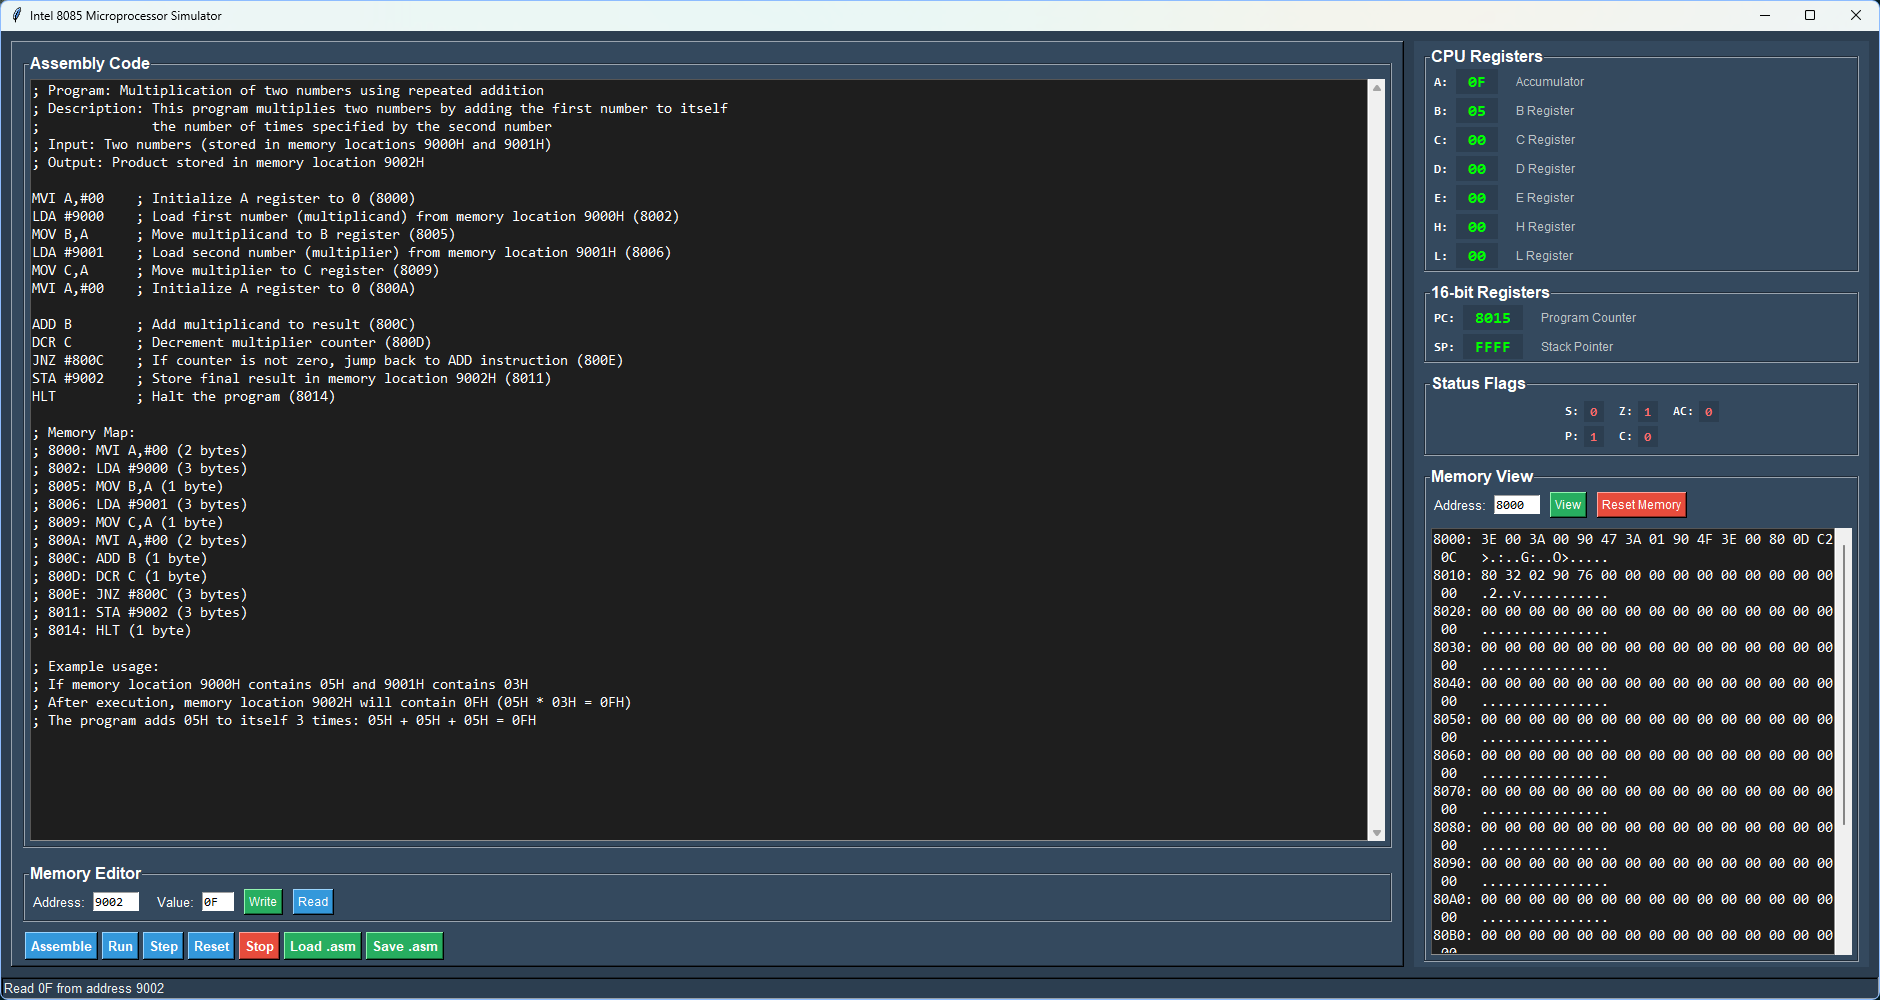
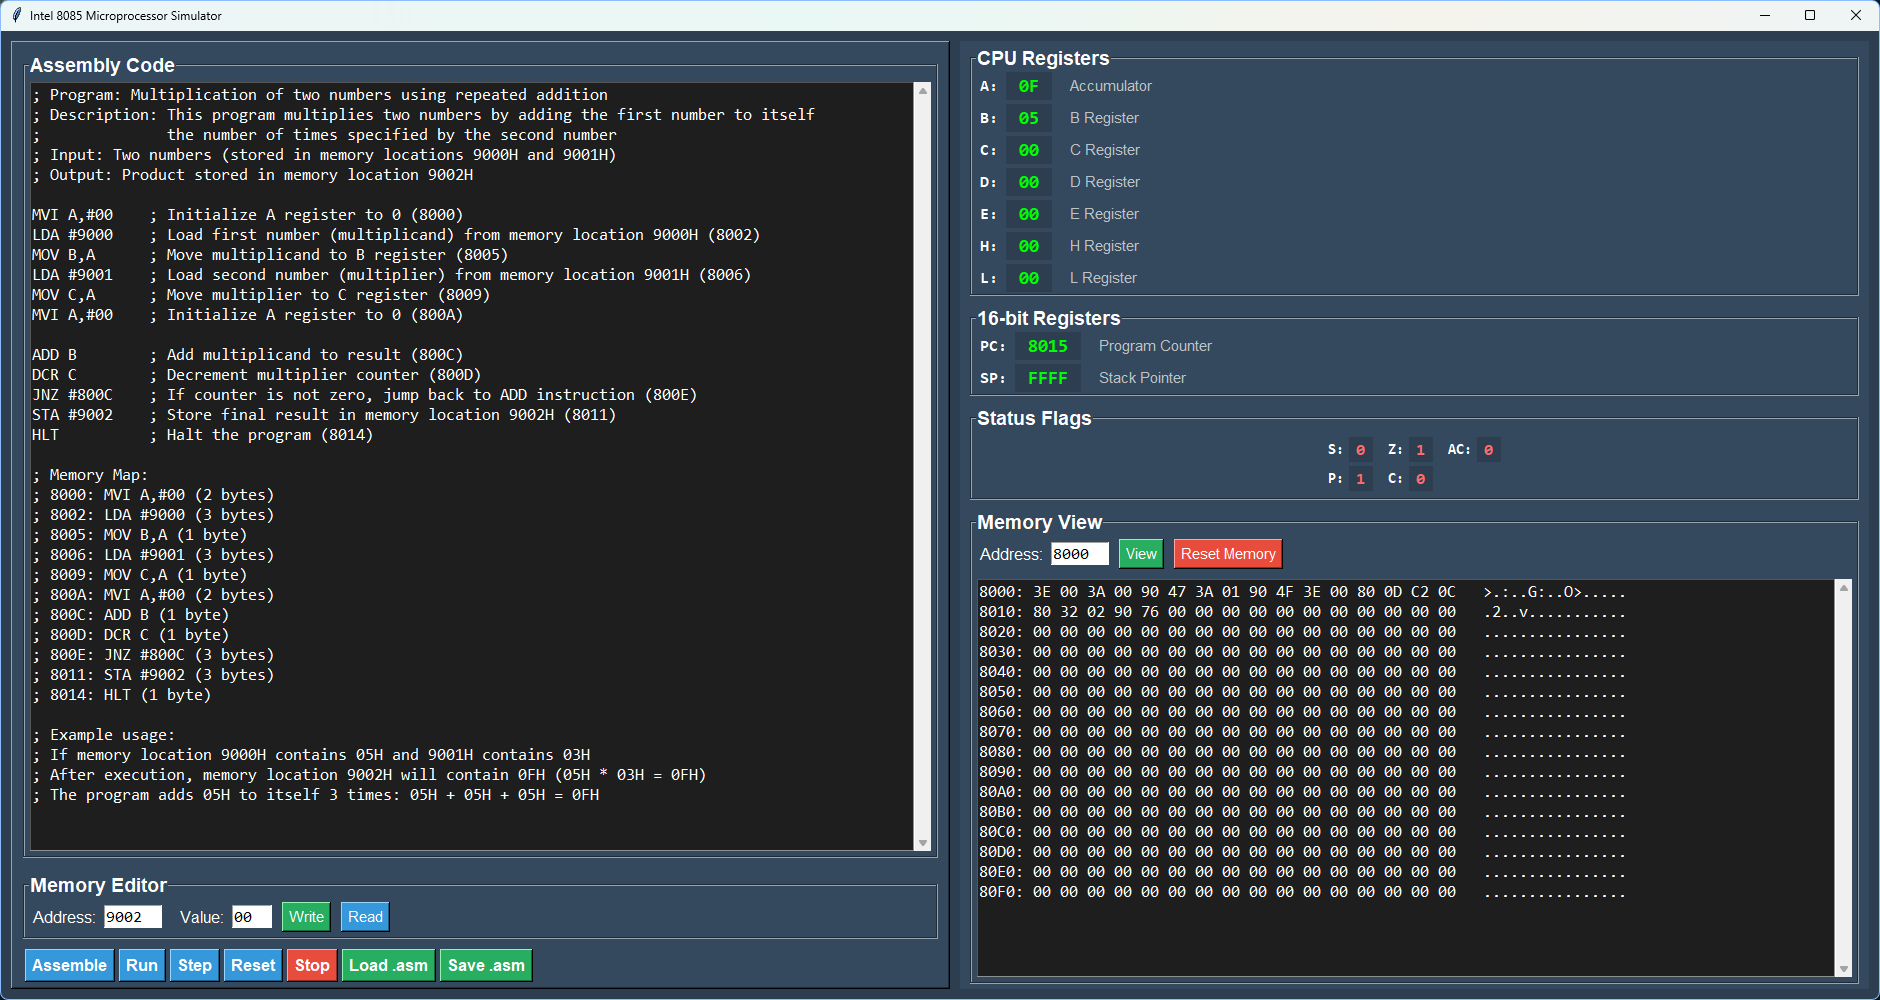
size-change

diff --git a/Src/Interface/SimulatorGUI.py b/Src/Interface/SimulatorGUI.py
@@ -15,7 +15,7 @@ class SimulatorGUI:
         logger.info("Initializing 8085 Simulator GUI")
         self.root = tk.Tk()
         self.root.title("Intel 8085 Microprocessor Simulator")
-        self.root.geometry("1200x800")
+        self.root.geometry("1400x900")  # Increased window size
         self.root.configure(bg='#2c3e50')
         
         # Initialize simulator components
@@ -42,63 +42,63 @@ class SimulatorGUI:
         left_panel.pack(side=tk.LEFT, fill=tk.BOTH, expand=True, padx=(0, 5))
         
         # Code editor
-        code_frame = tk.LabelFrame(left_panel, text="Assembly Code", bg='#34495e', fg='white', font=('Arial', 12, 'bold'))
+        code_frame = tk.LabelFrame(left_panel, text="Assembly Code", bg='#34495e', fg='white', font=('Arial', 14, 'bold'))
         code_frame.pack(fill=tk.BOTH, expand=True, padx=10, pady=10)
         
         self.code_text = scrolledtext.ScrolledText(
             code_frame, 
-            width=50, 
+            width=50,  # Increased width to match right side
             height=20,
             bg='#1e1e1e',
             fg='#ffffff',
             insertbackground='white',
-            font=('Consolas', 11),
+            font=('Consolas', 13),
             wrap=tk.NONE
         )
         self.code_text.pack(fill=tk.BOTH, expand=True, padx=5, pady=5)
         
-        # Memory Editor Section (moved below code editor)
-        mem_edit_frame = tk.LabelFrame(left_panel, text="Memory Editor", bg='#34495e', fg='white', font=('Arial', 12, 'bold'))
+        # Memory Editor Section
+        mem_edit_frame = tk.LabelFrame(left_panel, text="Memory Editor", bg='#34495e', fg='white', font=('Arial', 14, 'bold'))
         mem_edit_frame.pack(fill=tk.X, padx=10, pady=5)
         
         # Memory editor controls
         edit_controls = tk.Frame(mem_edit_frame, bg='#34495e')
         edit_controls.pack(fill=tk.X, padx=5, pady=5)
         
-        tk.Label(edit_controls, text="Address:", bg='#34495e', fg='white', font=('Arial', 10)).pack(side=tk.LEFT)
-        self.edit_addr_entry = tk.Entry(edit_controls, width=6, font=('Consolas', 10))
+        tk.Label(edit_controls, text="Address:", bg='#34495e', fg='white', font=('Arial', 12)).pack(side=tk.LEFT)
+        self.edit_addr_entry = tk.Entry(edit_controls, width=6, font=('Consolas', 12))
         self.edit_addr_entry.pack(side=tk.LEFT, padx=5)
         self.edit_addr_entry.insert(0, "9000")
         
-        tk.Label(edit_controls, text="Value:", bg='#34495e', fg='white', font=('Arial', 10)).pack(side=tk.LEFT, padx=(10,0))
-        self.edit_value_entry = tk.Entry(edit_controls, width=4, font=('Consolas', 10))
+        tk.Label(edit_controls, text="Value:", bg='#34495e', fg='white', font=('Arial', 12)).pack(side=tk.LEFT, padx=(10,0))
+        self.edit_value_entry = tk.Entry(edit_controls, width=4, font=('Consolas', 12))
         self.edit_value_entry.pack(side=tk.LEFT, padx=5)
         
-        tk.Button(edit_controls, text="Write", command=self.write_memory_byte, bg='#27ae60', fg='white', font=('Arial', 9)).pack(side=tk.LEFT, padx=5)
-        tk.Button(edit_controls, text="Read", command=self.read_memory_byte, bg='#3498db', fg='white', font=('Arial', 9)).pack(side=tk.LEFT, padx=5)
+        tk.Button(edit_controls, text="Write", command=self.write_memory_byte, bg='#27ae60', fg='white', font=('Arial', 11)).pack(side=tk.LEFT, padx=5)
+        tk.Button(edit_controls, text="Read", command=self.read_memory_byte, bg='#3498db', fg='white', font=('Arial', 11)).pack(side=tk.LEFT, padx=5)
         
         # Control buttons
         control_frame = tk.Frame(left_panel, bg='#34495e')
         control_frame.pack(fill=tk.X, padx=10, pady=5)
         
-        btn_style = {'bg': '#3498db', 'fg': 'white', 'font': ('Arial', 10, 'bold'), 'relief': tk.RAISED, 'bd': 2}
+        btn_style = {'bg': '#3498db', 'fg': 'white', 'font': ('Arial', 12, 'bold'), 'relief': tk.RAISED, 'bd': 2}
         
         tk.Button(control_frame, text="Assemble", command=self.assemble_code, **btn_style).pack(side=tk.LEFT, padx=2)
         tk.Button(control_frame, text="Run", command=self.run_program, **btn_style).pack(side=tk.LEFT, padx=2)
         tk.Button(control_frame, text="Step", command=self.step_program, **btn_style).pack(side=tk.LEFT, padx=2)
         tk.Button(control_frame, text="Reset", command=self.reset_cpu, **btn_style).pack(side=tk.LEFT, padx=2)
-        tk.Button(control_frame, text="Stop", command=self.stop_program, bg='#e74c3c', fg='white', font=('Arial', 10, 'bold')).pack(side=tk.LEFT, padx=2)
+        tk.Button(control_frame, text="Stop", command=self.stop_program, bg='#e74c3c', fg='white', font=('Arial', 12, 'bold')).pack(side=tk.LEFT, padx=2)
         
         # Add Load and Save buttons
-        tk.Button(control_frame, text="Load .asm", command=self.load_asm_file, bg='#27ae60', fg='white', font=('Arial', 10, 'bold')).pack(side=tk.LEFT, padx=2)
-        tk.Button(control_frame, text="Save .asm", command=self.save_asm_file, bg='#27ae60', fg='white', font=('Arial', 10, 'bold')).pack(side=tk.LEFT, padx=2)
+        tk.Button(control_frame, text="Load .asm", command=self.load_asm_file, bg='#27ae60', fg='white', font=('Arial', 12, 'bold')).pack(side=tk.LEFT, padx=2)
+        tk.Button(control_frame, text="Save .asm", command=self.save_asm_file, bg='#27ae60', fg='white', font=('Arial', 12, 'bold')).pack(side=tk.LEFT, padx=2)
         
         # Right panel - CPU state and memory
         right_panel = tk.Frame(main_frame, bg='#34495e')
-        right_panel.pack(side=tk.RIGHT, fill=tk.BOTH, padx=(5, 0))
+        right_panel.pack(side=tk.RIGHT, fill=tk.BOTH, expand=True, padx=(5, 0))
         
         # CPU Registers
-        reg_frame = tk.LabelFrame(right_panel, text="CPU Registers", bg='#34495e', fg='white', font=('Arial', 12, 'bold'))
+        reg_frame = tk.LabelFrame(right_panel, text="CPU Registers", bg='#34495e', fg='white', font=('Arial', 14, 'bold'))
         reg_frame.pack(fill=tk.X, padx=10, pady=5)
         
         self.reg_labels = {}
@@ -111,13 +111,13 @@ class SimulatorGUI:
             frame = tk.Frame(reg_frame, bg='#34495e')
             frame.pack(fill=tk.X, padx=5, pady=2)
             
-            tk.Label(frame, text=f"{reg}:", bg='#34495e', fg='white', font=('Consolas', 10, 'bold')).pack(side=tk.LEFT)
-            self.reg_labels[reg] = tk.Label(frame, text="00", bg='#2c3e50', fg='#00ff00', font=('Consolas', 12, 'bold'), width=4)
+            tk.Label(frame, text=f"{reg}:", bg='#34495e', fg='white', font=('Consolas', 12, 'bold')).pack(side=tk.LEFT)
+            self.reg_labels[reg] = tk.Label(frame, text="00", bg='#2c3e50', fg='#00ff00', font=('Consolas', 14, 'bold'), width=4)
             self.reg_labels[reg].pack(side=tk.LEFT, padx=5)
-            tk.Label(frame, text=desc, bg='#34495e', fg='#bdc3c7', font=('Arial', 9)).pack(side=tk.LEFT, padx=10)
+            tk.Label(frame, text=desc, bg='#34495e', fg='#bdc3c7', font=('Arial', 11)).pack(side=tk.LEFT, padx=10)
         
         # 16-bit registers
-        reg16_frame = tk.LabelFrame(right_panel, text="16-bit Registers", bg='#34495e', fg='white', font=('Arial', 12, 'bold'))
+        reg16_frame = tk.LabelFrame(right_panel, text="16-bit Registers", bg='#34495e', fg='white', font=('Arial', 14, 'bold'))
         reg16_frame.pack(fill=tk.X, padx=10, pady=5)
         
         reg16_info = [('PC', 'Program Counter'), ('SP', 'Stack Pointer')]
@@ -126,13 +126,13 @@ class SimulatorGUI:
             frame = tk.Frame(reg16_frame, bg='#34495e')
             frame.pack(fill=tk.X, padx=5, pady=2)
             
-            tk.Label(frame, text=f"{reg}:", bg='#34495e', fg='white', font=('Consolas', 10, 'bold')).pack(side=tk.LEFT)
-            self.reg_labels[reg] = tk.Label(frame, text="0000", bg='#2c3e50', fg='#00ff00', font=('Consolas', 12, 'bold'), width=6)
+            tk.Label(frame, text=f"{reg}:", bg='#34495e', fg='white', font=('Consolas', 12, 'bold')).pack(side=tk.LEFT)
+            self.reg_labels[reg] = tk.Label(frame, text="0000", bg='#2c3e50', fg='#00ff00', font=('Consolas', 14, 'bold'), width=6)
             self.reg_labels[reg].pack(side=tk.LEFT, padx=5)
-            tk.Label(frame, text=desc, bg='#34495e', fg='#bdc3c7', font=('Arial', 9)).pack(side=tk.LEFT, padx=10)
+            tk.Label(frame, text=desc, bg='#34495e', fg='#bdc3c7', font=('Arial', 11)).pack(side=tk.LEFT, padx=10)
         
         # Flags
-        flags_frame = tk.LabelFrame(right_panel, text="Status Flags", bg='#34495e', fg='white', font=('Arial', 12, 'bold'))
+        flags_frame = tk.LabelFrame(right_panel, text="Status Flags", bg='#34495e', fg='white', font=('Arial', 14, 'bold'))
         flags_frame.pack(fill=tk.X, padx=10, pady=5)
         
         self.flag_labels = {}
@@ -145,34 +145,34 @@ class SimulatorGUI:
             frame = tk.Frame(flags_grid, bg='#34495e')
             frame.grid(row=i//3, column=i%3, padx=5, pady=2, sticky='w')
             
-            tk.Label(frame, text=f"{flag}:", bg='#34495e', fg='white', font=('Consolas', 9, 'bold')).pack(side=tk.LEFT)
-            self.flag_labels[flag] = tk.Label(frame, text="0", bg='#2c3e50', fg='#ff6b6b', font=('Consolas', 10, 'bold'), width=2)
+            tk.Label(frame, text=f"{flag}:", bg='#34495e', fg='white', font=('Consolas', 11, 'bold')).pack(side=tk.LEFT)
+            self.flag_labels[flag] = tk.Label(frame, text="0", bg='#2c3e50', fg='#ff6b6b', font=('Consolas', 12, 'bold'), width=2)
             self.flag_labels[flag].pack(side=tk.LEFT, padx=2)
         
-        # Memory viewer (enlarged)
-        mem_frame = tk.LabelFrame(right_panel, text="Memory View", bg='#34495e', fg='white', font=('Arial', 12, 'bold'))
+        # Memory viewer
+        mem_frame = tk.LabelFrame(right_panel, text="Memory View", bg='#34495e', fg='white', font=('Arial', 14, 'bold'))
         mem_frame.pack(fill=tk.BOTH, expand=True, padx=10, pady=5)
         
         # Memory address input
         addr_frame = tk.Frame(mem_frame, bg='#34495e')
         addr_frame.pack(fill=tk.X, padx=5, pady=5)
         
-        tk.Label(addr_frame, text="Address:", bg='#34495e', fg='white', font=('Arial', 10)).pack(side=tk.LEFT)
-        self.addr_entry = tk.Entry(addr_frame, width=6, font=('Consolas', 10))
+        tk.Label(addr_frame, text="Address:", bg='#34495e', fg='white', font=('Arial', 12)).pack(side=tk.LEFT)
+        self.addr_entry = tk.Entry(addr_frame, width=6, font=('Consolas', 12))
         self.addr_entry.pack(side=tk.LEFT, padx=5)
         self.addr_entry.insert(0, "8000")
         
-        tk.Button(addr_frame, text="View", command=self.update_memory_view, bg='#27ae60', fg='white', font=('Arial', 9)).pack(side=tk.LEFT, padx=5)
-        tk.Button(addr_frame, text="Reset Memory", command=self.reset_memory, bg='#e74c3c', fg='white', font=('Arial', 9)).pack(side=tk.LEFT, padx=5)
+        tk.Button(addr_frame, text="View", command=self.update_memory_view, bg='#27ae60', fg='white', font=('Arial', 11)).pack(side=tk.LEFT, padx=5)
+        tk.Button(addr_frame, text="Reset Memory", command=self.reset_memory, bg='#e74c3c', fg='white', font=('Arial', 11)).pack(side=tk.LEFT, padx=5)
         
-        # Memory display (enlarged)
+        # Memory display
         self.memory_text = scrolledtext.ScrolledText(
             mem_frame,
-            width=50,  # Increased width
-            height=20,  # Increased height
+            width=50,  # Matched width with code editor
+            height=20,
             bg='#1e1e1e',
             fg='#ffffff',
-            font=('Consolas', 11),  # Increased font size
+            font=('Consolas', 13),
             state=tk.DISABLED
         )
         self.memory_text.pack(fill=tk.BOTH, expand=True, padx=5, pady=5)
@@ -183,7 +183,7 @@ class SimulatorGUI:
             text="Ready",
             bg='#2c3e50',
             fg='#ecf0f1',
-            font=('Arial', 10),
+            font=('Arial', 12),
             relief=tk.SUNKEN,
             anchor=tk.W
         )
